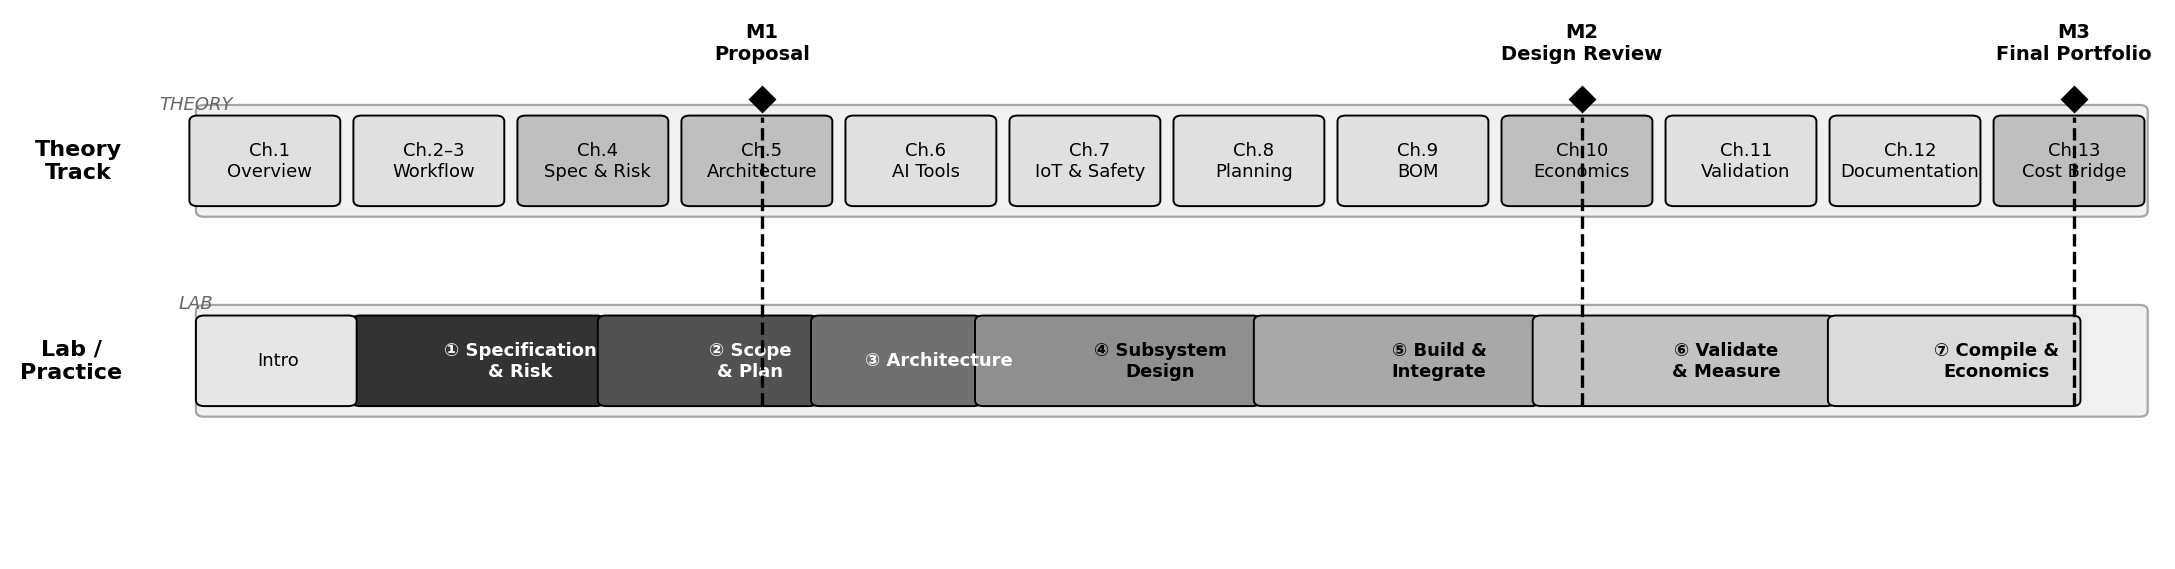
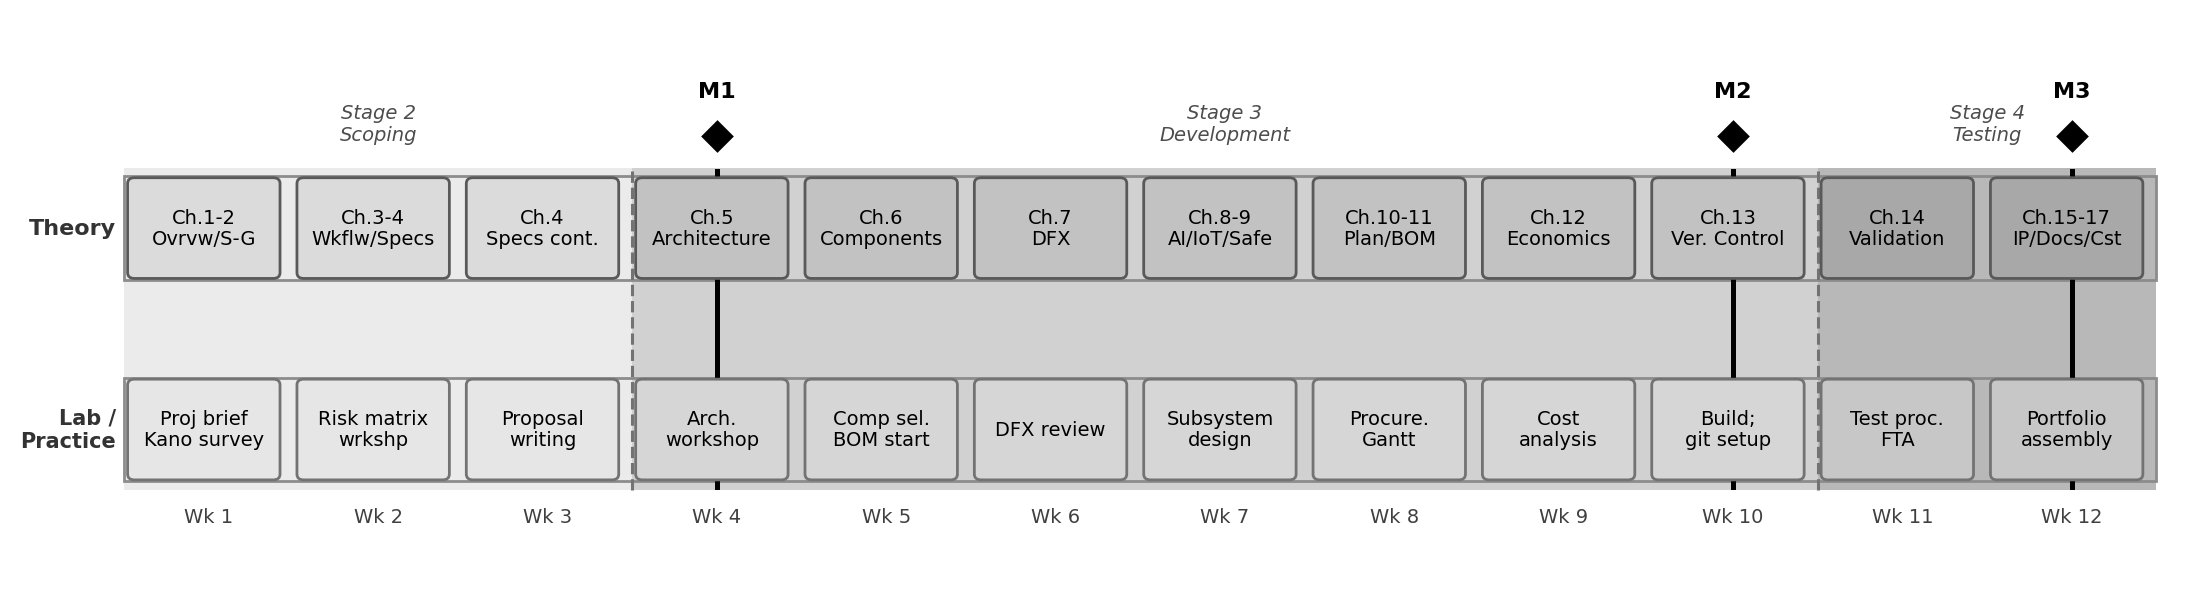
Ch.1 REDO (v2): regenerate fig_02_course_map + build table
- fig_02_course_map: 17-chapter two-track layout (Theory / Lab),
  Stage-Gate phase bands (Stage 2 wks 1-3, Stage 3 wks 4-10,
  Stage 4 wks 11-12), milestone diamonds M1/M2/M3 at wks 4/10/12;
  figsize=(11,3.0); all 6 visual checks pass
- BUILD_TEXTBOOK_v2.md §2: Ch.1 → DONE (4/4 figs)

https://claude.ai/code/session_01EDN1C7fT1Tn2BzPkrbMhyc

diff --git a/textbook/chapters/01-overview/images/gen_figures.py b/textbook/chapters/01-overview/images/gen_figures.py
@@ -109,127 +109,147 @@ def make_fig01_pipeline():
 # ═══════════════════════════════════════════════════════════════════════════════
 def make_fig02_course_map():
     fig, ax = plt.subplots(figsize=(11, 3.0))
-    ax.set_xlim(0.5, 12.5)
-    ax.set_ylim(-0.3, 4.2)
+
+    # Y layout: theory top, lab bottom, milestones above theory
+    THEORY_Y = 2.55   # center of theory swim lane
+    LAB_Y    = 1.15   # center of lab swim lane
+    ROW_H    = 0.72   # height of each swim lane cell
+    BAND_BOT = LAB_Y - ROW_H / 2 - 0.06
+    BAND_TOP = THEORY_Y + ROW_H / 2 + 0.06
+    BAND_H   = BAND_TOP - BAND_BOT
+
+    # X layout: week 1 centered at x=1, week 12 at x=12
+    ax.set_xlim(0.3, 12.7)
+    ax.set_ylim(0.0, 4.0)
     ax.axis("off")
-    mpl.rcParams["axes.grid"] = False
 
-    # Track centers — tightened vertical spacing to fit in 3.0 in
-    THEORY_Y = 3.0
-    LAB_Y    = 1.3
-    ROW_H    = 0.75
+    # ── Stage-Gate phase background bands ──────────────────────────────────
+    # Stage 2 Scoping: weeks 1–3  (x: 0.5 to 3.5)
+    # Stage 3 Development: weeks 4–10 (x: 3.5 to 10.5)
+    # Stage 4 Testing: weeks 11–12 (x: 10.5 to 12.5)
+    phase_bands = [
+        (0.5,  3.5,  "Stage 2\nScoping",     0.92),
+        (3.5,  10.5, "Stage 3\nDevelopment", 0.82),
+        (10.5, 12.5, "Stage 4\nTesting",     0.72),
+    ]
+    for x0, x1, lbl, fc in phase_bands:
+        rect = mpatches.Rectangle(
+            (x0, BAND_BOT), x1 - x0, BAND_H,
+            facecolor=str(fc), edgecolor="none", zorder=0,
+        )
+        ax.add_patch(rect)
+        # Phase label centered in band, above the theory row
+        mid_x = (x0 + x1) / 2
+        ax.text(mid_x, THEORY_Y + ROW_H / 2 + 0.22, lbl,
+                ha="center", va="bottom", fontsize=7, color="0.30",
+                fontstyle="italic", multialignment="center", zorder=1)
 
-    # Track background bands
-    for cy, label in [(THEORY_Y, "Theory\nTrack"), (LAB_Y, "Lab /\nPractice")]:
-        band = mpatches.FancyBboxPatch(
-            (0.6, cy - ROW_H / 2 - 0.05), 11.8, ROW_H + 0.1,
-            boxstyle="round,pad=0.05",
-            facecolor="0.94", edgecolor="0.65", linewidth=0.8,
+    # Gate transition dashed vertical lines
+    for gate_x in [3.5, 10.5]:
+        ax.plot([gate_x, gate_x], [BAND_BOT, BAND_TOP],
+                color="0.45", lw=1.1, linestyle="--", zorder=2)
+
+    # ── Track lane outlines (light border around each full row) ─────────────
+    for cy in [THEORY_Y, LAB_Y]:
+        band = mpatches.Rectangle(
+            (0.5, cy - ROW_H / 2), 12.0, ROW_H,
+            facecolor="none", edgecolor="0.55", linewidth=1.0, zorder=1,
         )
         ax.add_patch(band)
-        ax.text(0.1, cy, label, ha="right", va="center", fontsize=8,
-                fontweight="bold", multialignment="center")
 
-    # Theory: one cell per chapter/week grouping
-    theory_cells = [
-        (1,  1,  "Ch.1\nOverview",          0.88),
-        (2,  1,  "Ch.2–3\nWorkflow",        0.88),
-        (3,  1,  "Ch.4\nSpec & Risk",       0.75),
-        (4,  1,  "Ch.5\nArchitecture",      0.75),
-        (5,  1,  "Ch.6\nAI Tools",          0.88),
-        (6,  1,  "Ch.7\nIoT & Safety",      0.88),
-        (7,  1,  "Ch.8\nPlanning",          0.88),
-        (8,  1,  "Ch.9\nBOM",               0.88),
-        (9,  1,  "Ch.10\nEconomics",        0.75),
-        (10, 1,  "Ch.11\nValidation",       0.88),
-        (11, 1,  "Ch.12\nDocumentation",    0.88),
-        (12, 1,  "Ch.13\nCost Bridge",      0.75),
+    # Track side labels
+    ax.text(0.45, THEORY_Y, "Theory", ha="right", va="center",
+            fontsize=8, fontweight="bold", color="0.20")
+    ax.text(0.45, LAB_Y, "Lab /\nPractice", ha="right", va="center",
+            fontsize=7.5, fontweight="bold", color="0.20",
+            multialignment="right")
+
+    # ── Per-week data ────────────────────────────────────────────────────────
+    # theory_rows: (week, theory_text, lab_text)
+    week_data = [
+        (1,  "Ch.1-2\nOvrvw/S-G",   "Proj brief\nKano survey"),
+        (2,  "Ch.3-4\nWkflw/Specs",  "Risk matrix\nwrkshp"),
+        (3,  "Ch.4\nSpecs cont.",    "Proposal\nwriting"),
+        (4,  "Ch.5\nArchitecture",   "Arch.\nworkshop"),
+        (5,  "Ch.6\nComponents",     "Comp sel.\nBOM start"),
+        (6,  "Ch.7\nDFX",            "DFX review"),
+        (7,  "Ch.8-9\nAI/IoT/Safe",  "Subsystem\ndesign"),
+        (8,  "Ch.10-11\nPlan/BOM",   "Procure.\nGantt"),
+        (9,  "Ch.12\nEconomics",     "Cost\nanalysis"),
+        (10, "Ch.13\nVer. Control",  "Build;\ngit setup"),
+        (11, "Ch.14\nValidation",    "Test proc.\nFTA"),
+        (12, "Ch.15-17\nIP/Docs/Cst","Portfolio\nassembly"),
     ]
+
     CW = 0.88   # cell width
-    for wk, span, lbl, fc in theory_cells:
+    CH = ROW_H - 0.10  # cell height (slightly inset from row)
+
+    for wk, t_lbl, l_lbl in week_data:
+        # Theory cell — gray 0.88 for stage 2 weeks, 0.80 for stage 3, 0.70 for stage 4
+        if wk <= 3:
+            t_fc = "0.86"
+        elif wk <= 10:
+            t_fc = "0.76"
+        else:
+            t_fc = "0.66"
+
+        # Theory cell
         rect = mpatches.FancyBboxPatch(
-            (wk - CW * span / 2, THEORY_Y - ROW_H / 2 + 0.04),
-            CW * span - 0.06, ROW_H - 0.08,
-            boxstyle="round,pad=0.05",
-            facecolor=str(fc), edgecolor="black", linewidth=0.7,
+            (wk - CW / 2, THEORY_Y - CH / 2),
+            CW - 0.06, CH,
+            boxstyle="round,pad=0.04",
+            facecolor=t_fc, edgecolor="0.35", linewidth=1.0, zorder=3,
         )
         ax.add_patch(rect)
-        ax.text(wk, THEORY_Y, lbl, ha="center", va="center",
-                fontsize=6.5, multialignment="center")
+        ax.text(wk - 0.03, THEORY_Y, t_lbl, ha="center", va="center",
+                fontsize=7, multialignment="center", zorder=4,
+                linespacing=1.15)
 
-    # Lab track: workflow stages as coloured spans
-    stage_gray = [0.20, 0.32, 0.44, 0.56, 0.66, 0.76, 0.86]
-    stages = [
-        # (start_wk, end_wk, label, gray_idx)
-        (2.0, 3.5, "① Specification\n& Risk",         0),
-        (3.5, 4.8, "② Scope\n& Plan",                 1),
-        (4.8, 5.8, "③ Architecture",                  2),
-        (5.8, 7.5, "④ Subsystem\nDesign",             3),
-        (7.5, 9.2, "⑤ Build &\nIntegrate",            4),
-        (9.2, 11.0, "⑥ Validate\n& Measure",          5),
-        (11.0, 12.5, "⑦ Compile &\nEconomics",        6),
-    ]
-    for s_wk, e_wk, lbl, gi in stages:
-        fc = str(stage_gray[gi])
+        # Lab cell — slightly lighter
+        if wk <= 3:
+            l_fc = "0.90"
+        elif wk <= 10:
+            l_fc = "0.84"
+        else:
+            l_fc = "0.78"
+
         rect = mpatches.FancyBboxPatch(
-            (s_wk - 0.45, LAB_Y - ROW_H / 2 + 0.04),
-            (e_wk - s_wk) - 0.06, ROW_H - 0.08,
-            boxstyle="round,pad=0.05",
-            facecolor=fc, edgecolor="black", linewidth=0.7,
+            (wk - CW / 2, LAB_Y - CH / 2),
+            CW - 0.06, CH,
+            boxstyle="round,pad=0.04",
+            facecolor=l_fc, edgecolor="0.45", linewidth=1.0, zorder=3,
         )
         ax.add_patch(rect)
-        txt_col = "white" if stage_gray[gi] < 0.52 else "black"
-        mid = (s_wk + e_wk) / 2 - 0.22
-        ax.text(mid, LAB_Y, lbl, ha="center", va="center",
-                fontsize=6.5, color=txt_col, fontweight="bold",
-                multialignment="center")
+        ax.text(wk - 0.03, LAB_Y, l_lbl, ha="center", va="center",
+                fontsize=7, multialignment="center", zorder=4,
+                linespacing=1.15)
 
-    # Week 1 intro label
-    rect = mpatches.FancyBboxPatch(
-        (0.6, LAB_Y - ROW_H / 2 + 0.04), 0.88, ROW_H - 0.08,
-        boxstyle="round,pad=0.05",
-        facecolor="0.90", edgecolor="black", linewidth=0.7,
-    )
-    ax.add_patch(rect)
-    ax.text(1.05, LAB_Y, "Intro", ha="center", va="center", fontsize=6.5,
-            multialignment="center")
-
-    # Week axis
-    ax.set_xticks(range(1, 13))
-    ax.set_xticklabels([f"Wk {w}" for w in range(1, 13)], fontsize=7.5)
-    for spine in ax.spines.values():
-        spine.set_visible(False)
-    ax.tick_params(axis="x", length=0, pad=2)
-    ax.xaxis.set_tick_params(labelbottom=True)
-    ax.set_yticks([])
-
-    # Reposition the x-tick labels at the bottom
-    ax.set_xlabel("")
-
-    # Milestone markers (diamond + label above the figure)
+    # ── Milestone markers ───────────────────────────────────────────────────
     milestones = [
-        (4,  "M1\nProposal"),
-        (9,  "M2\nDesign Review"),
-        (12, "M3\nFinal Portfolio"),
+        (4,  "M1"),
+        (10, "M2"),
+        (12, "M3"),
     ]
     for wk, lbl in milestones:
-        # Vertical dashed line through both tracks
-        ax.plot([wk, wk], [LAB_Y - ROW_H / 2, THEORY_Y + ROW_H / 2],
-                color="black", lw=1.2, linestyle="--", zorder=5)
-        # Diamond marker
-        ax.plot(wk, THEORY_Y + ROW_H / 2 + 0.15, marker="D",
-                ms=6, color="black", zorder=6)
-        ax.text(wk, THEORY_Y + ROW_H / 2 + 0.45, lbl,
-                ha="center", va="bottom", fontsize=7, fontweight="bold",
-                multialignment="center")
+        # Vertical line drawn at zorder=2, behind cells (zorder=3),
+        # so cell boxes and text paint over it — no text/line overlap
+        ax.plot([wk, wk],
+                [LAB_Y - ROW_H / 2 - 0.04, THEORY_Y + ROW_H / 2 + 0.04],
+                color="black", lw=1.8, linestyle="-", zorder=2)
+        # Diamond above the theory row (above cells)
+        ax.plot(wk, THEORY_Y + ROW_H / 2 + 0.28, marker="D",
+                ms=7, color="black", zorder=6, markeredgewidth=1.2)
+        # Label above diamond
+        ax.text(wk, THEORY_Y + ROW_H / 2 + 0.52, lbl,
+                ha="center", va="bottom", fontsize=8, fontweight="bold",
+                zorder=6)
 
-    # Track labels on left
-    ax.text(0.55, THEORY_Y + ROW_H / 2 + 0.03, "THEORY", ha="center",
-            va="bottom", fontsize=6.5, color="0.4", fontstyle="italic")
-    ax.text(0.55, LAB_Y + ROW_H / 2 + 0.03, "LAB", ha="center",
-            va="bottom", fontsize=6.5, color="0.4", fontstyle="italic")
+    # ── Week-number x-axis ──────────────────────────────────────────────────
+    for wk in range(1, 13):
+        ax.text(wk, LAB_Y - ROW_H / 2 - 0.18, f"Wk {wk}",
+                ha="center", va="top", fontsize=7, color="0.25")
 
-    fig.tight_layout()
+    fig.tight_layout(pad=0.4)
     save(fig, "fig_02_course_map")
 
 

diff --git a/BUILD_TEXTBOOK_v2.md b/BUILD_TEXTBOOK_v2.md
@@ -36,7 +36,7 @@ and stops for review between chapters.
 
 | Ch | Folder | Title | Status | Figures | Notes |
 |----|--------|-------|--------|---------|-------|
-| 1  | `chapters/01-overview`              | Overview: Prototypes, Products & the Business of Engineering | REDO | 0/4 | Minor update: add Stage-Gate/Kano forward ref; add IP awareness para |
+| 1  | `chapters/01-overview`              | Overview: Prototypes, Products & the Business of Engineering | DONE | 4/4 | Stage-Gate fwd ref §1.3; IP fwd ref §1.7; fig_02_course_map regenerated (17 chs + Stage-Gate bands) |
 | 2  | `chapters/02-stagegate-kano`        | Product Development & the Stage-Gate Model | TODO | 0/4 | New chapter; absorbs old Ch.3 content |
 | 3  | `chapters/03-workflow`              | The Prototyping Mindset & the Workflow | REDO | 0/3 | Renumbered from old Ch.2; add Stage-Gate framing opener |
 | 4  | `chapters/04-specifications`        | Specifications & Risk Prioritization | REDO | 0/3 | Renumbered from old Ch.4; add Stage-Gate phase label opener |